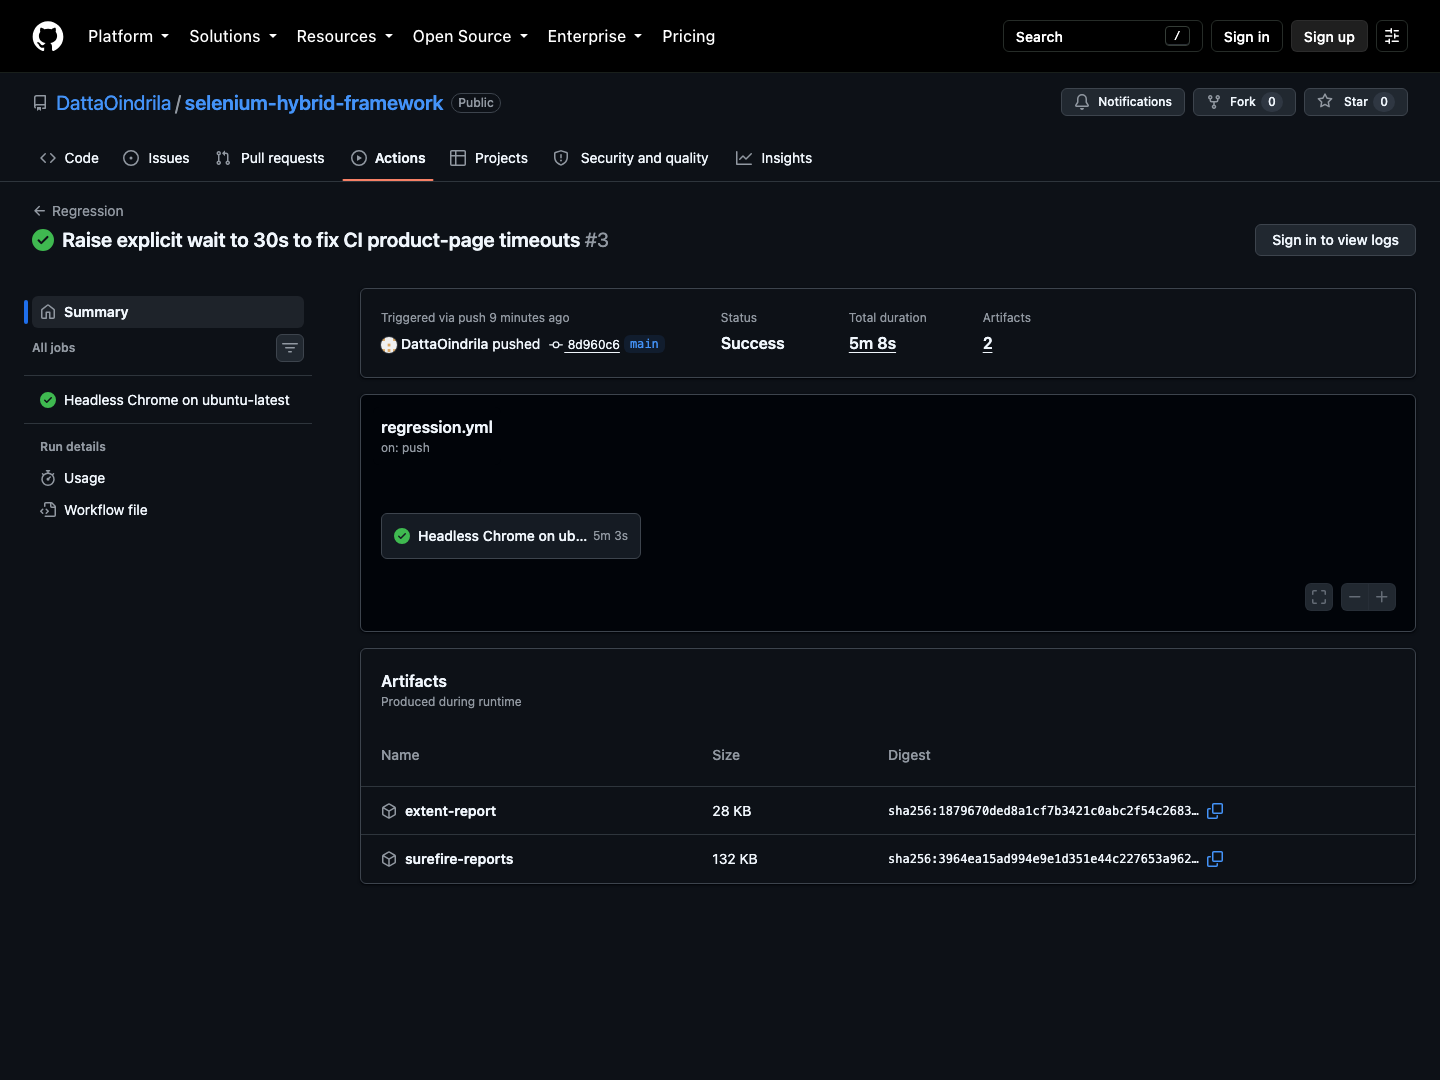
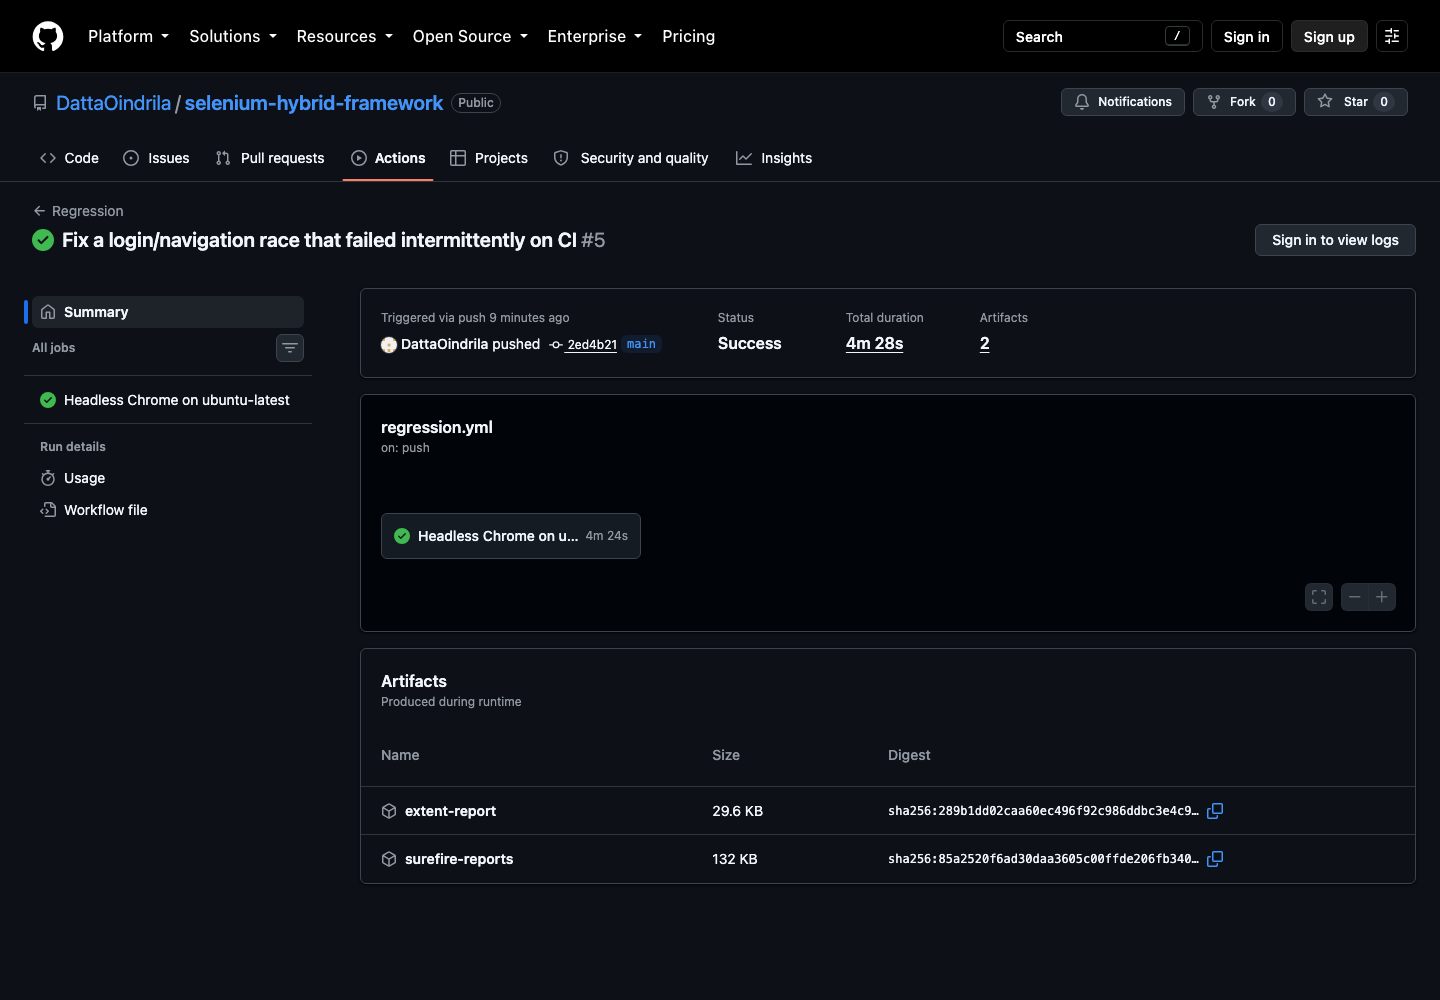
Record the verified CI figures: 120/120, zero retries, 4m04s

diff --git a/README.md b/README.md
@@ -13,7 +13,7 @@ ExtentReports and wired to GitHub Actions.
 **120 tests, 120 passed, 0 failed, 0 skipped, 0 retries — 9 min 35 s**
 Chrome 151, headless, macOS, JDK 21. Full console output: [`docs/console-output.txt`](docs/console-output.txt).
 
-The same suite on CI: **120 passed, 0 failed, 0 retries — 5 min 03 s** on `ubuntu-latest`,
+The same suite on CI: **120 passed, 0 failed, 0 retries — 4 min 04 s** on `ubuntu-latest`,
 headless Chrome 151, Temurin JDK 21.
 
 ![ExtentReport dashboard showing 120 tests passed and 0 failed, with a per-tag breakdown and the
@@ -320,7 +320,7 @@ The ExtentReport, the failure screenshots and the Surefire results are uploaded 
 `if: always()` — the report matters most when the suite has failed. A step summary reads the counts
 straight out of TestNG's own results file, so it cannot disagree with what ran.
 
-Verified against the live repository: green in 5m03s, 120/120 passing, zero retries, both
+Verified against the live repository: green in 4m04s, 120/120 passing, zero retries, both
 artefacts uploaded, no deprecation warnings.
 
 ![The GitHub Actions run page showing the Regression workflow completing successfully in 6 minutes
